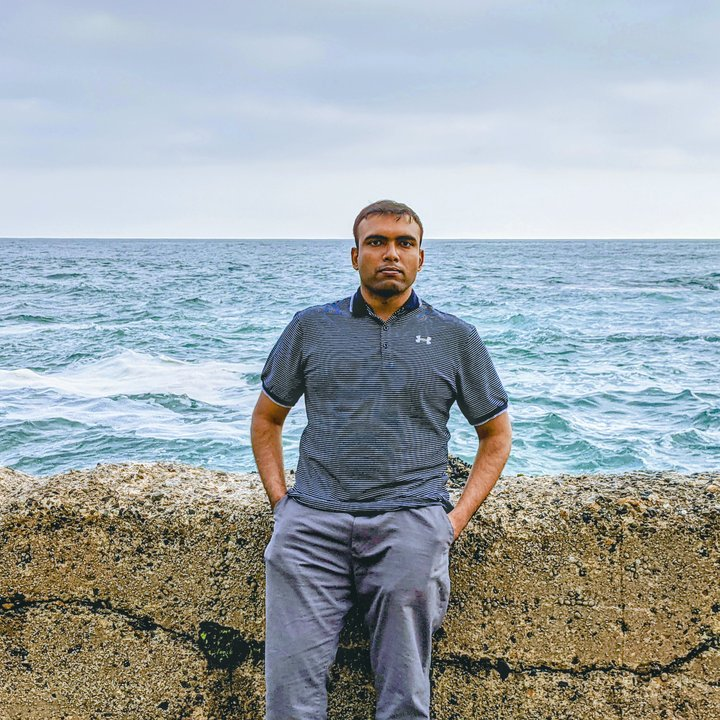
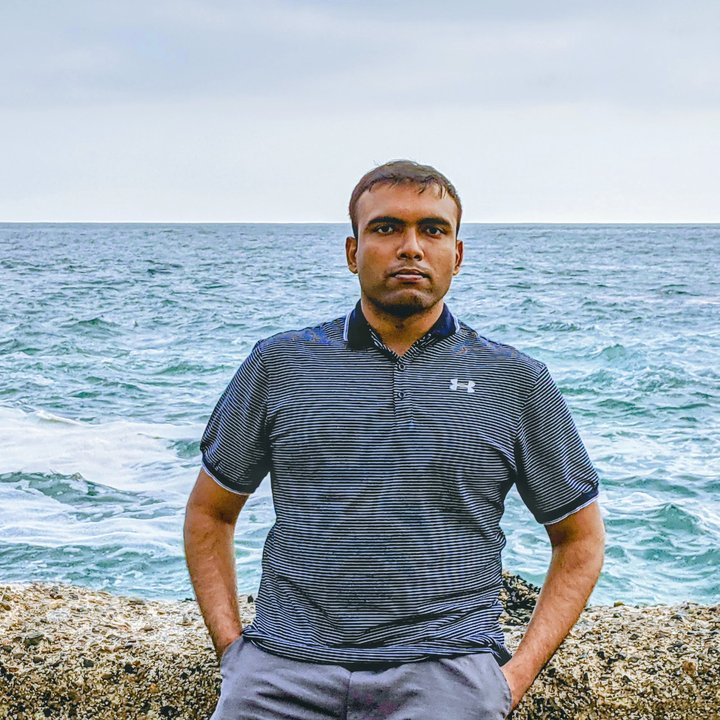
Tighter profile crop and README for project media

diff --git a/README.md b/README.md
@@ -1,3 +1,25 @@
 # ShazidAraf.github.io
-Personal Website
-https://shazidaraf.github.io/
+
+Personal website of Md Shazid Islam: https://shazidaraf.github.io/
+
+## Files
+
+- `index.html`: the whole site (one page, no build step).
+- `Md_Shazid_Islam_Resume.pdf`: resume linked from the site. `resume.pdf` is a copy for old links.
+- `assets/profile.jpg`: cropped profile photo used on the page. `profile_pic.jpg` is the original.
+- `assets/media/`: project demos.
+
+## Adding a project GIF
+
+Drop a file with the matching name into `assets/media/`. The placeholder disappears on its own.
+
+| Project | File |
+|---|---|
+| LINGUAL | `lingual.gif` |
+| Uncertainty for 3D VLMs | `uncertainty-3d-vlm.gif` |
+| Radiology report generation | `radiology-report.gif` |
+| ODES | `odes.gif` |
+| DEGAST3D | `degast3d.gif` |
+
+Keep GIFs under about 5 MB. For an MP4, replace the `<img>` in that project's `<figure class="media">` with
+`<video src="assets/media/name.mp4" autoplay muted loop playsinline></video>`.
